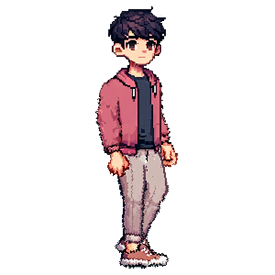
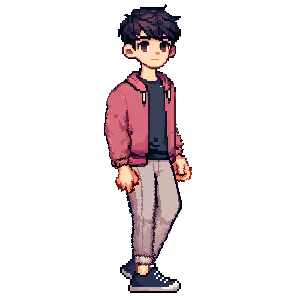
player walking animation frames

Changed region(s): [[0.32, 0.0, 0.6691, 0.9891]]

diff --git a/logic/player.js b/logic/player.js
@@ -9,6 +9,11 @@ import playerWalk4 from "../resources/images/player_walk4.png";
 import playerWalk5 from "../resources/images/player_walk5.png";
 import playerWalk6 from "../resources/images/player_walk6.png";
 import playerWalk7 from "../resources/images/player_walk7.png";
+import playerWalk8 from "../resources/images/player_walk8.png";
+import playerWalk9 from "../resources/images/player_walk9.png";
+import playerWalk10 from "../resources/images/player_walk10.png";
+import playerWalk11 from "../resources/images/player_walk11.png";
+import playerWalk12 from "../resources/images/player_walk12.png";
 import playerWalkMini1 from "../resources/images/player_walkA1.png";
 import playerWalkMini2 from "../resources/images/player_walkA2.png";
 import playerWalkMini3 from "../resources/images/player_walkA3.png";
@@ -43,6 +48,11 @@ class Player {
       PIXI.Texture.from(playerWalk5),
       PIXI.Texture.from(playerWalk6),
       PIXI.Texture.from(playerWalk7),
+      PIXI.Texture.from(playerWalk8),
+      PIXI.Texture.from(playerWalk9),
+      PIXI.Texture.from(playerWalk10),
+      PIXI.Texture.from(playerWalk11),
+      PIXI.Texture.from(playerWalk12),
     ];
     Player.isMiniSize = false;
     // this.destinationReached = true;
@@ -117,6 +127,7 @@ class Player {
       this.walkableArea.containsPoint(targetPosition)
     ) {
       // Switch to the walk animation frames
+<<<<<<< HEAD
       if (Player.player.textures !== Player.playerWalkFrames) {
         Player.player.textures = Player.playerWalkFrames;
         if (Player.isMiniSize) {
@@ -125,13 +136,18 @@ class Player {
         else {
           Player.player.animationSpeed = 0.11; // Set animation speed for walk animation
         }
+=======
+      if (Player.player.textures !== this.playerWalkFrames) {
+        Player.player.textures = this.playerWalkFrames;
+        Player.player.animationSpeed = 0.15; // Set animation speed for walk animation
+>>>>>>> b320d74 (player walking animation frames)
         Player.player.play();
       }
       // this.destinationReached = false;
       // Move the player towards the target position
       const directionX = dx / distance;
       const directionY = dy / distance;
-      const speed = 1.6; // Adjust speed if needed
+      const speed = 3.3; // Adjust speed if needed
       Player.player.x += directionX * speed;
       Player.player.y += directionY * speed;
 
